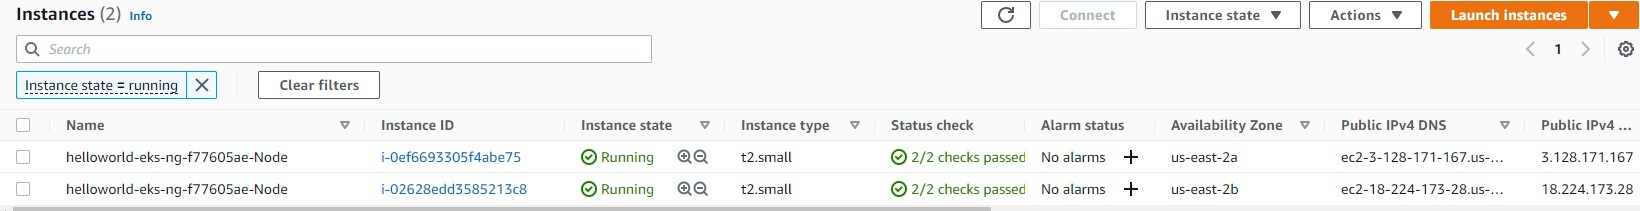
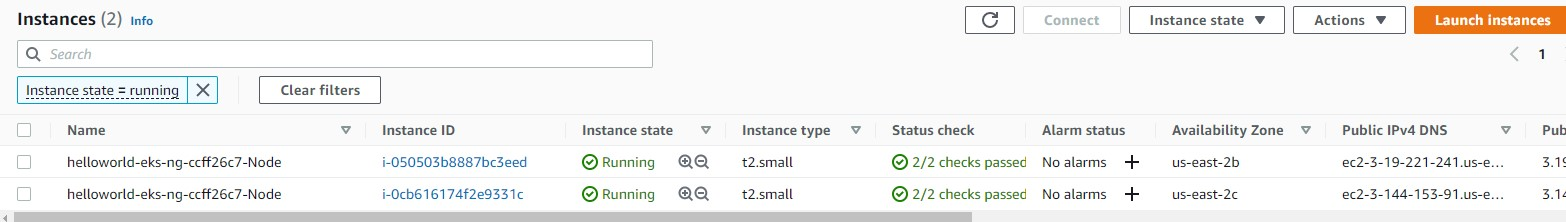
kubernetes addition

diff --git a/README.md b/README.md
@@ -46,10 +46,21 @@ make lint
 
 ## Set up Kubernetes
 
+When circleci step "create-cluster" runs, it 
 * install kubectl
 * install eksctl
-* Create initial AWS EKS cluster using eksctl and config file:  `eksctl create cluster -f cluster.yaml`
-  ![](images/eks-creation-1.jpg)
+* Create initial AWS EKS cluster using eksctl and config file cluster.yml
+  ![](images/circleci-EKSCluster-creation-1.jpg)
+  ![](images/circleci-EKSCluster-creation-2.jpg)
+* Create CloudFormation stacks
+  ![](images/circleci-CloudFormation-Stacks.jpg)
+* Create Kubernetes Notes
+  ![](images/Kubernetes-Nodes-1.jpg)
+  ![](images/Kubernetes-Nodes-2.jpg)
+* Create AWS ec2 instances
+  ![](images/aws-ec2.jpg)
+
+
 
 
 
